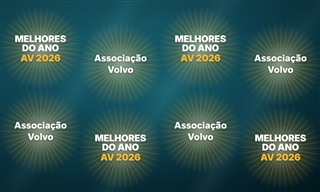
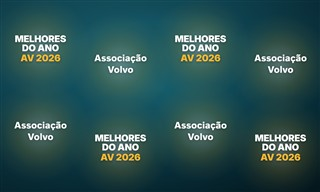
Arte 10 com brilho suave, Arte 11 com linha e fundo em degradê, novas Artes 12 (emblema no alto) e 13 (Melhores do Ano na estrela)

diff --git a/artes/banner-5x3-painel.html b/artes/banner-5x3-painel.html
@@ -3,7 +3,7 @@
 <!-- Banner para impressão: proporção 5 x 3.
      Painel de fotos: 4 colunas, cada uma com um "Melhores do Ano AV 2026" e um "Associação / Volvo",
      colunas alternando um pouco mais para cima e mais para baixo. Tudo em branco.
-     Versões (no endereço): ?v=amarelo (AV 2026 em amarelo), ?v=raios (raios de luz atrás das palavras), ?v=box (box em linhas com raios dourados atrás, alinhado). -->
+     Versões (no endereço): ?v=amarelo (AV 2026 em amarelo), ?v=raios (brilho suave atrás de cada selo), ?v=estrela (Melhores do Ano dentro da estrela 3D), ?v=linha (linha dourada embaixo de cada selo, alinhado, fundo em degradê do meio para fora). -->
 <link href="https://fonts.googleapis.com/css2?family=Inter:wght@800;900&display=swap" rel="stylesheet">
 <style>
   * { margin: 0; padding: 0; box-sizing: border-box; }
@@ -27,28 +27,23 @@
   .av2 img { display: block; height: 54px; filter: drop-shadow(0 3px 10px rgba(0,0,0,.3)); }
   .av2 img + img { margin-top: 18px; }
 
-  /* raios de luz vindo de trás (versões ?v=raios e ?v=box) */
-  .ray { position: absolute; width: 760px; height: 760px; margin: -380px 0 0 -380px; z-index: 1; pointer-events: none; border-radius: 50%; }
-  .ray::before { content: ''; position: absolute; inset: 0; border-radius: 50%;
-    background: repeating-conic-gradient(from 0deg, rgba(255,214,120,.9) 0deg 2deg, transparent 2deg 9deg);
-    -webkit-mask-image: radial-gradient(circle, #000 8%, transparent 52%); mask-image: radial-gradient(circle, #000 8%, transparent 52%); opacity: .3; }
-  .ray::after { content: ''; position: absolute; inset: 120px; border-radius: 50%;
-    background: radial-gradient(circle, rgba(255,236,180,.5), rgba(242,182,50,.18) 40%, transparent 70%); }
-  .raios .mda b.av, .box .mda b.av { color: #f2b632; }
-  .box .mda b.av { color: #fff; }
-  .box .mda b { font-size: 50px; }
-  .box .av2 img { height: 48px; }
+  /* ?v=raios: só um brilho suave atrás de cada selo (sem linhas de raio aparentes) */
+  .ray { position: absolute; width: 680px; height: 680px; margin: -340px 0 0 -340px; z-index: 1; pointer-events: none; border-radius: 50%;
+    background: radial-gradient(circle, rgba(255,240,205,.30) 0%, rgba(242,182,50,.16) 30%, rgba(242,182,50,.06) 48%, transparent 66%); }
+  .raios .mda b.av, .estrela .mda b.av { color: #f2b632; }
 
-  /* versão com box em linhas: contorno fino branco + linha dourada por dentro, cantos marcados */
-  .box .item { border: 2px solid rgba(255,255,255,.8); border-radius: 6px; background: rgba(4,28,36,.35); }
-  .box .item::before { content: ''; position: absolute; inset: 10px; border: 1px solid rgba(242,182,50,.75); border-radius: 3px; pointer-events: none; }
-  .box .item::after { content: ''; position: absolute; inset: -9px; pointer-events: none;
-    background:
-      linear-gradient(#f2b632, #f2b632) left top / 34px 4px, linear-gradient(#f2b632, #f2b632) left top / 4px 34px,
-      linear-gradient(#f2b632, #f2b632) right top / 34px 4px, linear-gradient(#f2b632, #f2b632) right top / 4px 34px,
-      linear-gradient(#f2b632, #f2b632) left bottom / 34px 4px, linear-gradient(#f2b632, #f2b632) left bottom / 4px 34px,
-      linear-gradient(#f2b632, #f2b632) right bottom / 34px 4px, linear-gradient(#f2b632, #f2b632) right bottom / 4px 34px;
-    background-repeat: no-repeat; }
+  /* ?v=estrela: "Melhores do Ano AV 2026" dentro de uma estrela dourada em 3D */
+  .star3d { position: absolute; width: 450px; height: 450px; margin: -232px 0 0 -225px; z-index: 1;
+    filter: drop-shadow(0 0 30px rgba(255,214,110,.45)) drop-shadow(0 26px 40px rgba(0,0,0,.5)); }
+  .star3d svg { width: 100%; height: 100%; display: block; }
+  .estrela .mda b { font-size: 40px; text-shadow: 0 2px 0 rgba(70,38,2,.9), 0 0 3px rgba(50,26,0,.9), 0 0 14px rgba(40,20,0,.8), 0 0 26px rgba(40,20,0,.5); }
+  .estrela .mda b.av { color: #fff; }
+
+  /* ?v=linha: selos alinhados, uma linha dourada embaixo de cada um e fundo em degradê do meio para fora */
+  .linha .art, .art.linha { background: radial-gradient(75% 85% at 50% 50%, #237f91 0%, #12566a 30%, #0b3c49 60%, #041c24 100%); }
+  .linha .beam, .raios .beam { display: none; }
+  .ln { display: block; width: 270px; height: 4px; margin-top: 26px; border-radius: 2px;
+    background: linear-gradient(90deg, transparent, #f2b632 20%, #ffe2a0 50%, #f2b632 80%, transparent); }
 </style></head>
 <body><div class="art" id="art">
   <div class="beam" style="left:300px"></div><div class="beam" style="left:900px"></div><div class="beam" style="left:1500px"></div>
@@ -62,19 +57,43 @@
   const v = q.get('v') || 'amarelo';
   document.getElementById('art').classList.add(v);
 
-  const MDA = '<b>Melhores</b><b>do ano</b><b class="av">AV 2026</b>';
-  const AV2 = '<img src="logo-associacao.png" alt="Associação"><img src="logo-volvo.png" alt="Volvo">';
+  const MDA = '<b>Melhores</b><b>do ano</b><b class="av">AV 2026</b>' + (v === 'linha' ? '<i class="ln"></i>' : '');
+  const AV2 = '<img src="logo-associacao.png" alt="Associação"><img src="logo-volvo.png" alt="Volvo">' + (v === 'linha' ? '<i class="ln"></i>' : '');
+  // estrela dourada facetada (mesma da capa da apresentação), usada na versão ?v=estrela
+  const STAR = (() => {
+    const C = 300, R = 285, r = 128, L = [-0.55, -0.83];
+    const P = (a, rad) => [C + rad * Math.cos(a * Math.PI / 180), C + rad * Math.sin(a * Math.PI / 180)];
+    const lo = [96, 56, 6], hi = [255, 246, 205];
+    const col = t => 'rgb(' + lo.map((v, i) => Math.round(v + (hi[i] - v) * t)).join(',') + ')';
+    let facets = '', outline = [];
+    for (let k = 0; k < 5; k++) {
+      const a = -90 + 72 * k, O = P(a, R), Ia = P(a - 36, r), Ib = P(a + 36, r);
+      outline.push(Ia, O);
+      for (const I of [Ia, Ib]) {
+        let nx = -(O[1] - I[1]), ny = O[0] - I[0];
+        const mx = (O[0] + I[0]) / 2 - C, my = (O[1] + I[1]) / 2 - C;
+        if (nx * mx + ny * my < 0) { nx = -nx; ny = -ny; }
+        const n = Math.hypot(nx, ny), t = Math.max(0, Math.min(1, .5 + .55 * ((nx / n) * L[0] + (ny / n) * L[1])));
+        facets += '<path d="M' + C + ' ' + C + 'L' + I.map(v => v.toFixed(1)) + 'L' + O.map(v => v.toFixed(1)) + 'Z" fill="' + col(t) + '"/>';
+      }
+    }
+    const pts = outline.map(p => p.map(v => v.toFixed(1)).join(' ')).join(' L');
+    return '<svg viewBox="0 0 600 600"><defs><radialGradient id="sg" cx=".42" cy=".38" r=".7"><stop offset="0" stop-color="#fff" stop-opacity=".45"/><stop offset=".35" stop-color="#fff" stop-opacity="0"/></radialGradient></defs>' +
+      facets + '<path d="M' + pts + 'Z" fill="url(#sg)"/><path d="M' + pts + 'Z" fill="none" stroke="#ffe9a8" stroke-width="3" stroke-linejoin="round" opacity=".85"/></svg>';
+  })();
   // 4 colunas; cada coluna tem um de cada, e as colunas alternam: uma mais para cima, a outra mais para baixo
   const cols = [250, 750, 1250, 1750];
   let h = '';
   cols.forEach((x, i) => {
     const up = i % 2 === 0;
-    // na versão com box tudo fica alinhado em duas linhas retas; nas outras, colunas em zigue-zague
-    const y1 = v === 'box' ? 340 : (up ? 300 : 400), y2 = v === 'box' ? 860 : y1 + 520;
+    // na versão com linha tudo fica alinhado em duas linhas retas; nas outras, colunas em zigue-zague
+    const y1 = v === 'linha' ? 330 : (up ? 300 : 400), y2 = v === 'linha' ? 850 : y1 + 520;
     const first = up ? ['mda', MDA] : ['av2', AV2], second = up ? ['av2', AV2] : ['mda', MDA];
-    if (v === 'raios' || v === 'box') h += `<div class="ray" style="left:${x}px;top:${y1}px"></div><div class="ray" style="left:${x}px;top:${y2}px"></div>`;
-    h += `<div class="item ${first[0]}" style="left:${x}px;top:${y1}px">${first[1]}</div>`;
-    h += `<div class="item ${second[0]}" style="left:${x}px;top:${y2}px">${second[1]}</div>`;
+    [[first, y1], [second, y2]].forEach(([it, y]) => {
+      if (v === 'raios') h += `<div class="ray" style="left:${x}px;top:${y}px"></div>`;
+      if (v === 'estrela' && it[0] === 'mda') h += `<div class="star3d" style="left:${x}px;top:${y}px">${STAR}</div>`;
+      h += `<div class="item ${it[0]}" style="left:${x}px;top:${y}px">${it[1]}</div>`;
+    });
   });
   document.getElementById('art').insertAdjacentHTML('beforeend', h);
 </script>

diff --git a/artes/index.html b/artes/index.html
@@ -64,8 +64,10 @@
     ['banner-5x3-rodape.png', 'Banner 5 x 3 — rodapé esportivo', 'Título, logo e estrela com brilho na mesma linha · rodapé com contornos de bolas em luz'],
     ['banner-5x3-emblema.png', 'Banner 5 x 3 — emblema dourado', 'Estrela e Melhores do Ano centralizados, estilo prêmio'],
     ['banner-5x3-painel.png', 'Banner 5 x 3 — painel intercalado (AV 2026 amarelo)', 'Colunas alternadas: Melhores do Ano e Associação / Volvo em branco'],
-    ['banner-5x3-painel-raios.png', 'Banner 5 x 3 — painel com raios', 'Raios de luz dourada atrás de cada selo · AV 2026 amarelo'],
-    ['banner-5x3-painel-box.png', 'Banner 5 x 3 — painel com box em linhas', 'Box em contorno com cantos dourados e raios atrás · tudo alinhado']
+    ['banner-5x3-painel-raios.png', 'Banner 5 x 3 — painel com destaque de luz', 'Brilho suave atrás de cada selo · AV 2026 amarelo'],
+    ['banner-5x3-painel-linha.png', 'Banner 5 x 3 — painel com linha', 'Linha dourada embaixo de cada selo · fundo em degradê do meio para fora'],
+    ['banner-5x3-emblema-topo.png', 'Banner 5 x 3 — emblema no alto', 'Emblema dourado menor, no meio e em cima (até ~1,20 m do topo)'],
+    ['banner-5x3-painel-estrela.png', 'Banner 5 x 3 — Melhores do Ano na estrela', 'Melhores do Ano AV 2026 dentro da estrela 3D · Associação Volvo sem efeito']
   ];
   const $ = id => document.getElementById(id);
   let cur = 0;

diff --git a/artes/banner-5x3-emblema.html b/artes/banner-5x3-emblema.html
@@ -37,6 +37,8 @@
   .rule b { width: 14px; height: 14px; background: #f2b632; transform: rotate(45deg); }
   .rule span { font-family: 'Inter', Arial, sans-serif; font-weight: 900; font-size: 64px; letter-spacing: .08em; color: #fff; }
   .logo { width: 440px; margin-top: 34px; opacity: .95; filter: drop-shadow(0 4px 18px rgba(0,0,0,.4)); }
+  /* ?v=topo: emblema menor, no alto e no meio, dentro do 1º metro e pouco (até ~1,20 m de 3 m = 480 px de 1200) */
+  .topo .emblem { top: 36px; transform: scale(.5); transform-origin: 50% 0; }
 </style></head>
 <body><div class="art">
   <div class="fx" id="fx"></div>
@@ -53,6 +55,7 @@
   // ?z=2 aumenta a arte (para gerar a imagem em alta resolução)
   const z = parseFloat(new URLSearchParams(location.search).get('z'));
   if (z) { document.documentElement.style.zoom = z; document.documentElement.style.overflow = 'hidden'; }
+  if (new URLSearchParams(location.search).get('v') === 'topo') document.querySelector('.art').classList.add('topo');
 
   // linhas diagonais douradas e poeira de brilho (sorteio fixo, sai sempre igual)
   (function () {
